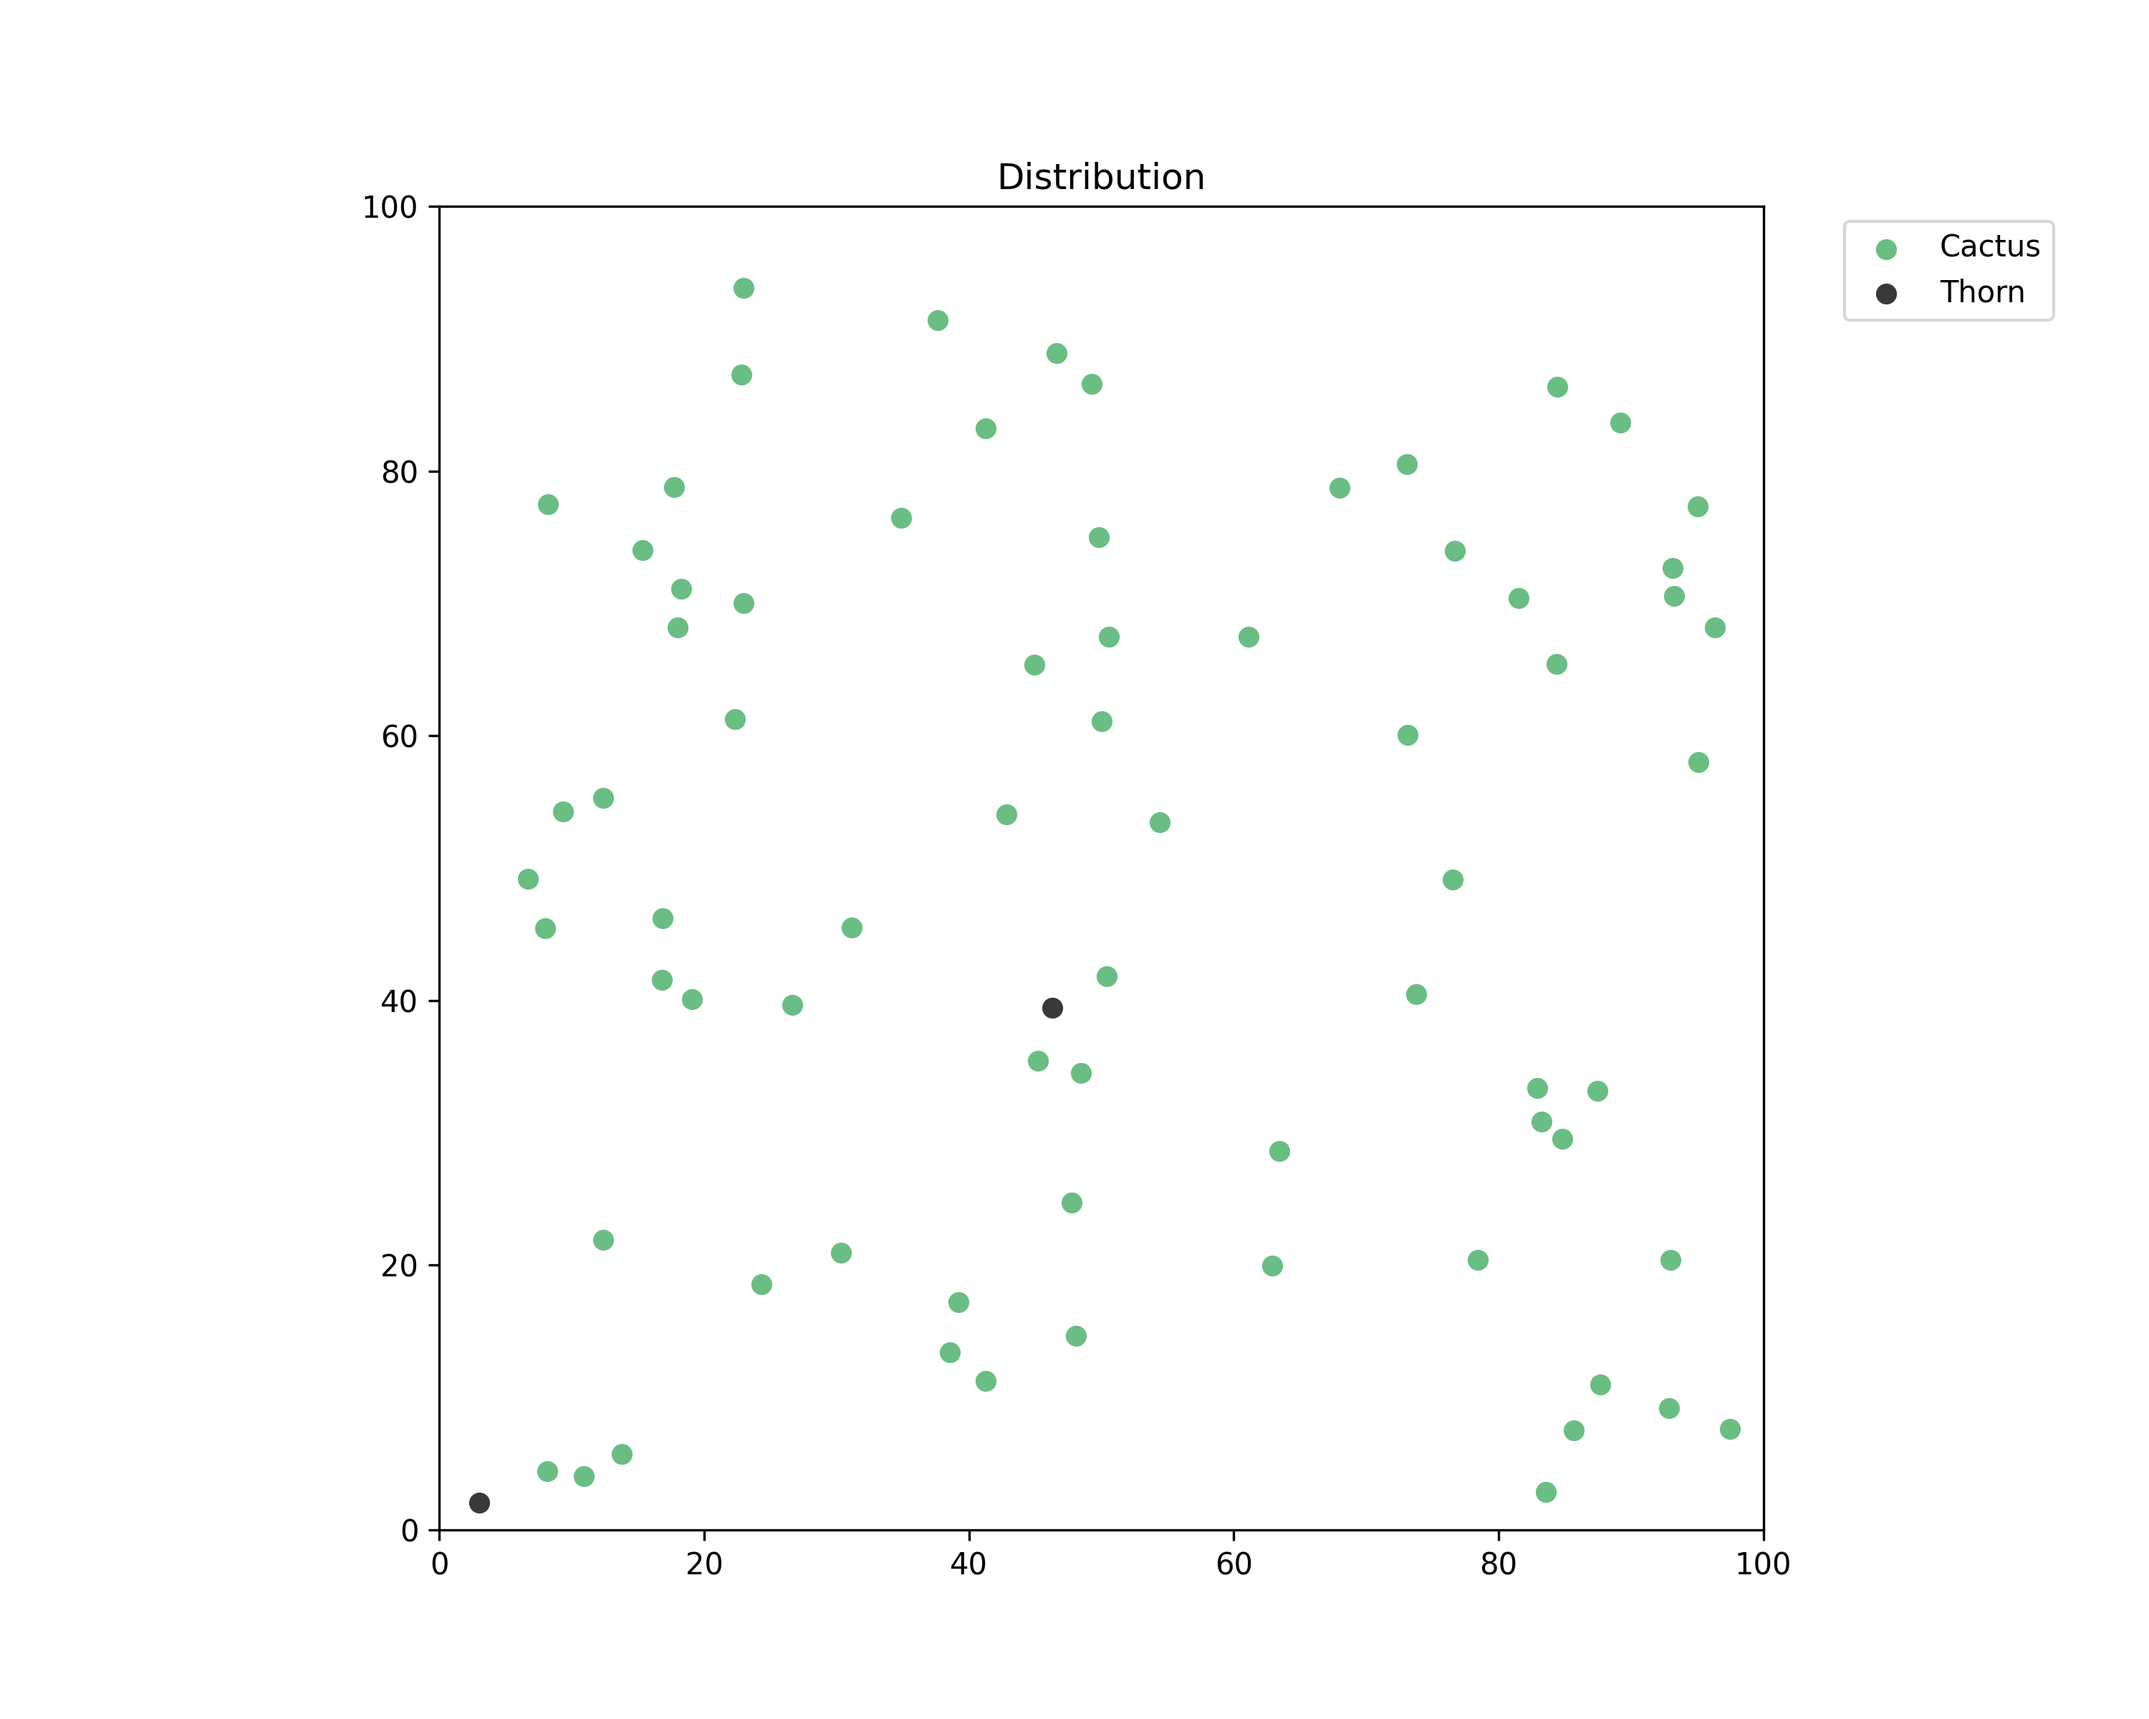
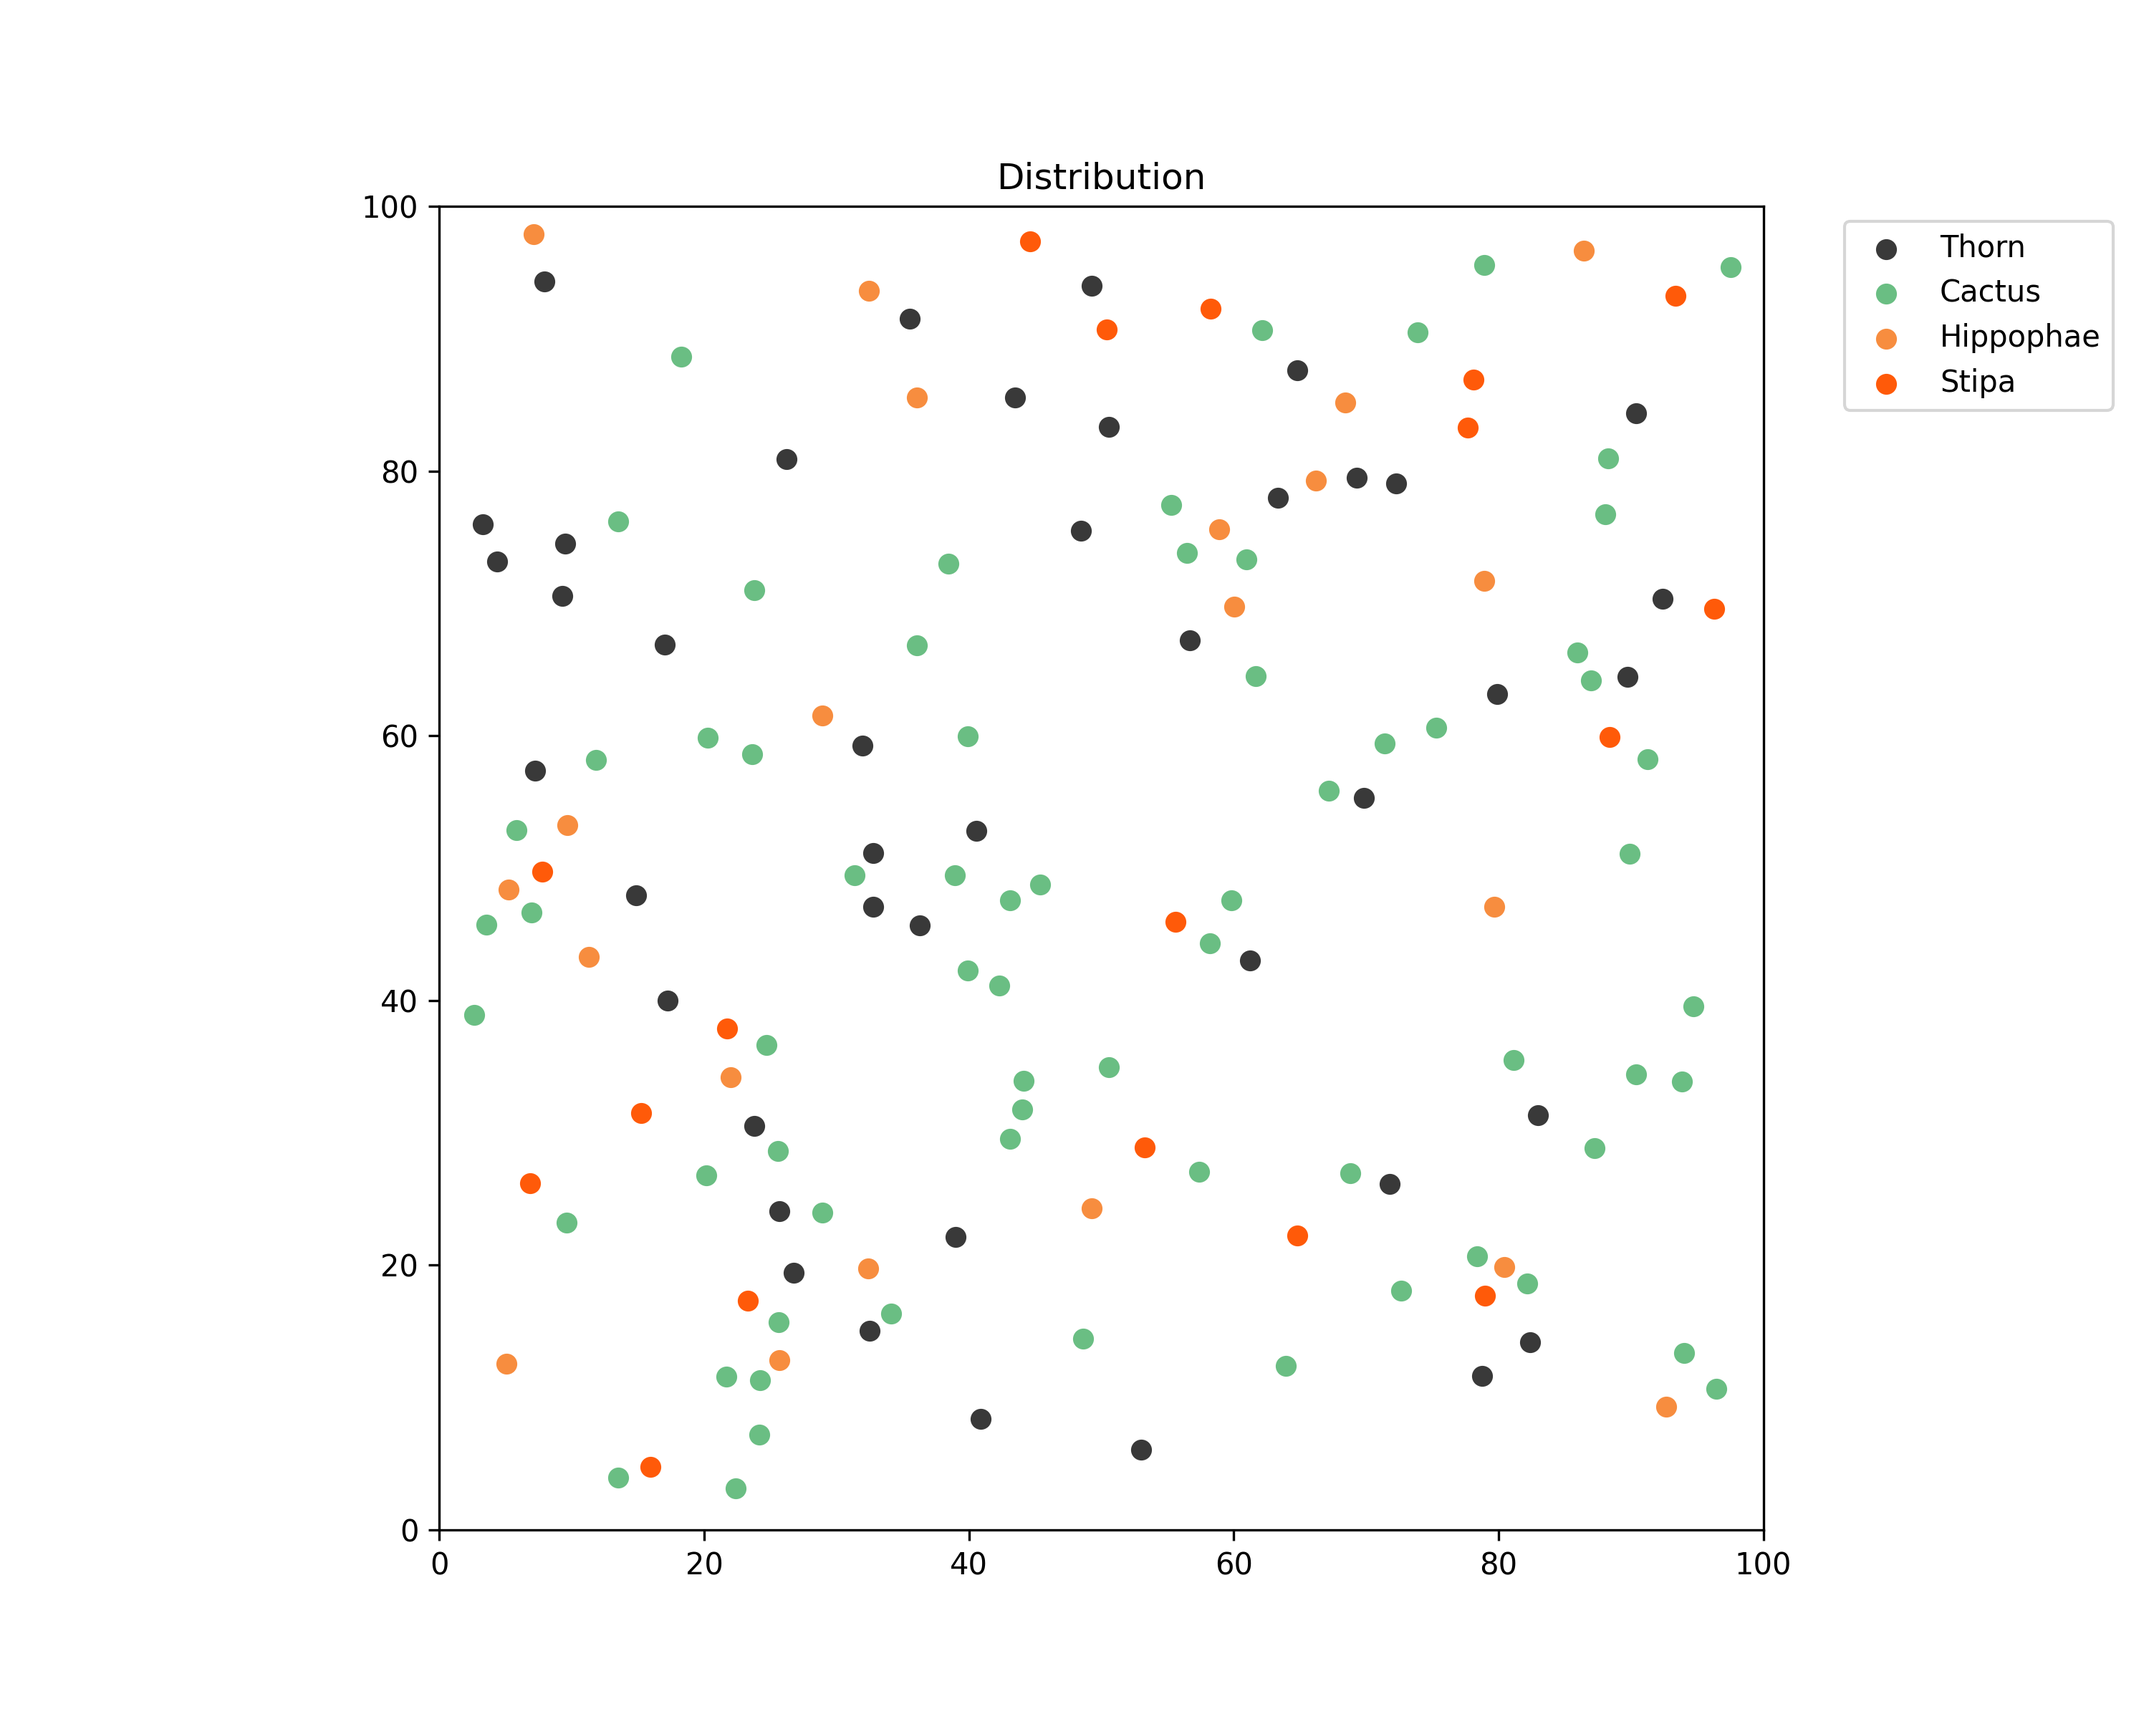
set

diff --git a/helper_func.py b/helper_func.py
@@ -21,7 +21,7 @@ class Climate:
 def HealthPointIteration(plant:Plant, section:Section, surrounding_Plants:List[Plant]):
     
     # Soil Nutrient
-    HP = plant.life + 0.05 * (section.nut) + random.randint(-65, 0)
+    HP = plant.life + 0.05 * (section.nut) + random.randint(-65, 6)
     
     # Local Temperature
     if plant.t_min > section.tem:
@@ -132,7 +132,41 @@ def SoilNutrientIteration(section:Section, climate:Climate):
     
     return SN
 
-def spawn(plant:Plant,world:World,tik:int):
-    if plant.age % plant.repro_period == 0:
+
+def spawn(plant:Plant):
+    dx = random.uniform(-1,1)*10
+    dy = random.uniform(-1,1)*10
+    while plant.x + dx > 100 or plant.x + dx < 0 or plant.y + dy > 100 or plant.y + dy <0:
         dx = random.uniform(-1,1)*10
         dy = random.uniform(-1,1)*10
+    if plant.name == "Cactus":
+        newplant = Cactus(plant.x + dx,plant.y + dy)
+    elif plant.name == "Hippophae":
+        newplant = Hippophae(plant.x + dx,plant.y + dy)
+    elif plant.name == "Thorn":
+        newplant = Thorn(plant.x + dx,plant.y + dy)
+    elif plant.name == "Stipa":
+        newplant = Stipa(plant.x + dx,plant.y + dy)
+    elif plant.name == "Villous_themeda":
+        newplant = Villous_themeda(plant.x + dx,plant.y + dy)
+    elif plant.name == "Arteannuin":
+        newplant = Arteannuin(plant.x + dx,plant.y + dy)
+    elif plant.name == "Poplar":
+        newplant = Poplar(plant.x + dx,plant.y + dy)
+    elif plant.name == "Argy":
+        newplant = Argy(plant.x + dx,plant.y + dy)
+    elif plant.name == "Crofton_weed":
+        newplant = Crofton_weed(plant.x + dx,plant.y + dy)
+    elif plant.name == "Leymus_chinensis":
+        newplant = Leymus_chinensis(plant.x + dx,plant.y + dy)
+    elif plant.name == "Locust":
+        newplant = Locust(plant.x + dx,plant.y + dy)
+    elif plant.name == "Chinese_pennisetum":
+        newplant = Chinese_pennisetum(plant.x + dx,plant.y + dy)
+    elif plant.name == "Conyza_canadensis":
+        newplant = Conyza_canadensis(plant.x + dx,plant.y + dy)
+    else:
+        newplant = Cactus(plant.x + dx,plant.y + dy)
+
+    newplant.age = 0
+    return newplant

diff --git a/main.py b/main.py
@@ -15,7 +15,7 @@ temperature,humidity,_ = simulate_tropical_savanna_climate_daily()
 total=300
 plant_list = [1]*int(total*0.7) + [2]*int(total*0.1) + [3]*int(total*0.1) + [4]*int(total*0.1)
 
-world=init_sp(plant_list)
+world=init(total)
 tik = 0
 
 temp_hp_loss=0
@@ -46,15 +46,27 @@ year = 1
 log = []
 while 1:
 
-    climate = Climate(temperature[tik],humidity[tik])
+    climate = Climate(temperature[tik%360],humidity[tik%360])
     plants_iteration()
     for section in world.sections:
         sec_itr(section,climate)
+    newplants = []
+    for plant in world.plants:
+        if plant.age % plant.repro_period == 0:
+            sec = world.sections[plant.get_sec()]
+            if sec.sil_hum > 200 and sec.nut > 200:
+                newplants.append(spawn(plant))
+                sec.sil_hum = sec.sil_hum - 100
+                sec.nut = sec.nut - 100
+            #print("New plant spawned!")
+    world.plants = world.plants + newplants
+
+
 
     world.update_sec()
 
     tik = tik + 1
-
+    print(tik)
     if tik == 100:
         world.vis(fname="100",collection=["Cactus","Hippophae","Thorn","Stipa"])
         with open('possibility.txt', 'w') as file:
@@ -66,7 +78,7 @@ while 1:
             file.write(str(len(world.plants)/total)+" at day 200\n")
 
     log.append(len(world.plants)/total)
-    if tik > 300 or len(world.plants)==0 :
+    if tik > 600 or len(world.plants)==0 :
         break
 
 
@@ -74,18 +86,19 @@ world.vis(fname="final",collection=["Cactus","Hippophae","Thorn","Stipa"])
 with open('possibility.txt', 'a') as file:
     file.write(str(len(world.plants)/total)+" at day 300\n")
 
-x_ax = range(0,301)
+x_ax = range(0,len(log))
 
 plt.figure(dpi=300).set_size_inches(8,6)
 plt.plot(x_ax,log)
 plt.xlabel("day")
 plt.ylabel("survival possibility")
+plt.title("Combination of 4 plants")
 plt.ylim(0,1.05)
 plt.xlim(0,300)
 plt.savefig("log.png")
 
-with open('data1.pkl', 'ab') as f:
-    pickle.dump(log, f)
+#with open('data1.pkl', 'ab') as f:
+#    pickle.dump(log, f)
 
 
 

diff --git a/plantclass.py b/plantclass.py
@@ -29,7 +29,7 @@ class Plant:
 
     def death(self):
         print("Plant " + self.name + " died at age" + str(self.age))
-        #self.debug()
+        self.debug()
         return
 
     def debug(self):
@@ -136,7 +136,7 @@ class Stipa(Plant):   #针茅
         self.life=100
         self.water=120
         self.water_max=120
-        self.repro_period=4
+        self.repro_period=40
         self.water_consume=2
         self.soil_consume=3
         self.color="#FF5A09"
